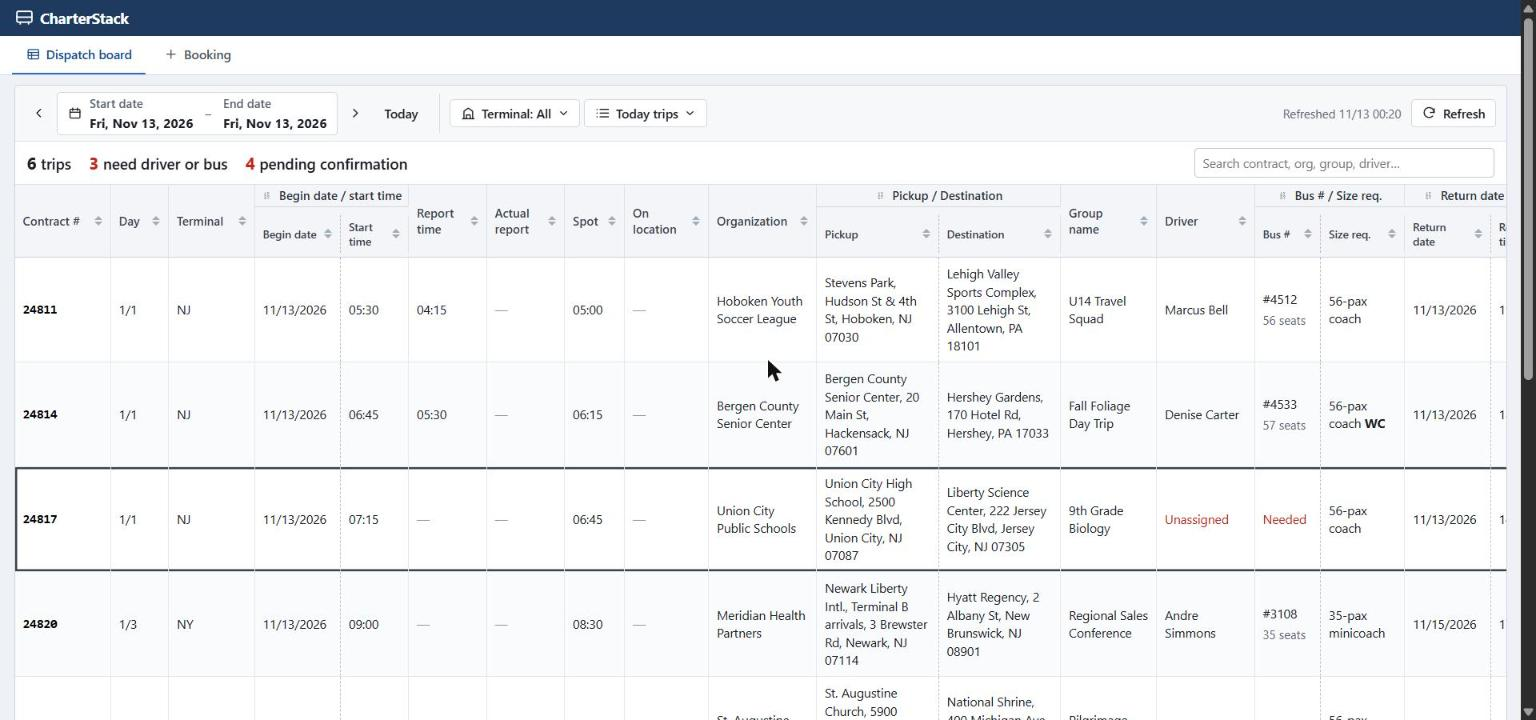
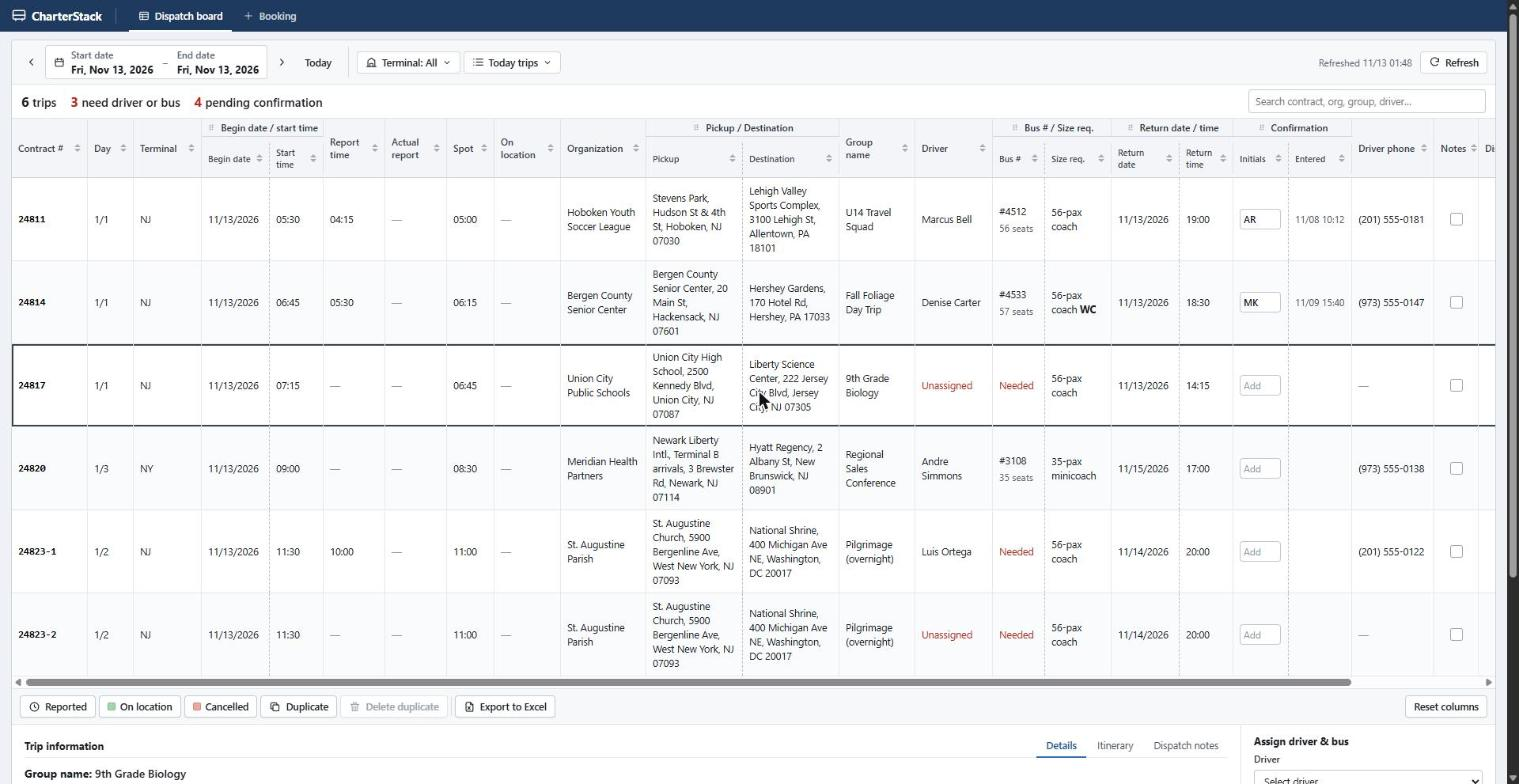
Combine the header and tabs into one navy bar
The CharterStack name and the Dispatch board / Booking tabs now share one
40px navy bar, giving the trip table back about 38px. UI guide updated
first; README and landing screenshots retaken.

diff --git a/frontend/src/components/AppFrame.tsx b/frontend/src/components/AppFrame.tsx
@@ -40,29 +40,30 @@ export default function AppFrame({ session }: { session: SessionInfo }) {
       <header className="app-header">
         <Icon name="bus" size={20} />
         <h1>CharterStack</h1>
+        <span className="header-sep" aria-hidden="true" />
+        <nav className="tabs" aria-label="Views">
+          <button
+            type="button"
+            className="tab"
+            data-active={tab === 'board'}
+            aria-current={tab === 'board' ? 'page' : undefined}
+            onClick={() => setTab('board')}
+          >
+            <Icon name="board" />
+            Dispatch board
+          </button>
+          <button
+            type="button"
+            className="tab"
+            data-active={tab === 'booking'}
+            aria-current={tab === 'booking' ? 'page' : undefined}
+            onClick={() => setTab('booking')}
+          >
+            <Icon name="plus" />
+            Booking
+          </button>
+        </nav>
       </header>
-      <nav className="tabs" aria-label="Views">
-        <button
-          type="button"
-          className="tab"
-          data-active={tab === 'board'}
-          aria-current={tab === 'board' ? 'page' : undefined}
-          onClick={() => setTab('board')}
-        >
-          <Icon name="board" />
-          Dispatch board
-        </button>
-        <button
-          type="button"
-          className="tab"
-          data-active={tab === 'booking'}
-          aria-current={tab === 'booking' ? 'page' : undefined}
-          onClick={() => setTab('booking')}
-        >
-          <Icon name="plus" />
-          Booking
-        </button>
-      </nav>
       <main className="app-main">
         {tab === 'board' ? (
           <BoardTab

diff --git a/frontend/src/styles/app.css b/frontend/src/styles/app.css
@@ -49,33 +49,41 @@ textarea {
 .app-header {
   background: var(--app-header);
   color: #fff;
-  padding: 8px 14px;
+  height: 40px;
+  padding: 0 14px;
   display: flex;
   align-items: center;
   gap: 6px;
+  flex: none;
 }
 .app-header h1 {
   margin: 0;
   font-size: 15px;
   font-weight: 700;
   letter-spacing: -0.01em;
+  white-space: nowrap;
+}
+.header-sep {
+  width: 1px;
+  height: 20px;
+  background: rgba(255, 255, 255, 0.25);
+  margin: 0 10px 0 12px;
 }
 .tabs {
-  background: #fff;
-  border-bottom: 1px solid #d5dae1;
-  padding: 0 12px;
   display: flex;
-  gap: 4px;
+  align-self: stretch;
+  gap: 2px;
 }
 .tab {
-  height: 38px;
-  padding: 0 14px;
+  height: 100%;
+  padding: 0 12px;
   border: 0;
   border-bottom: 2px solid transparent;
+  border-top: 2px solid transparent;
   background: transparent;
-  color: var(--text-2);
+  color: rgba(255, 255, 255, 0.75);
   font-size: 12.5px;
-  font-weight: 600;
+  font-weight: 500;
   display: flex;
   align-items: center;
   gap: 6px;
@@ -86,11 +94,17 @@ textarea {
   height: 14px;
 }
 .tab:hover {
-  color: var(--text);
+  color: #fff;
+  background: rgba(255, 255, 255, 0.06);
 }
 .tab[data-active='true'] {
-  color: var(--blue-text);
-  border-bottom-color: var(--blue);
+  color: #fff;
+  font-weight: 600;
+  border-bottom-color: #fff;
+}
+.tab:focus-visible {
+  outline: 2px solid #fff;
+  outline-offset: -4px;
 }
 .sfoot {
   display: flex;

diff --git a/docs/UI_GUIDE.md b/docs/UI_GUIDE.md
@@ -21,7 +21,7 @@ A dense, desktop internal tool: closer to a real TMS than a modern marketing app
 | Toolbar / header-row background | `#F7F8FA` / `#F3F5F8` |
 | App header bar | `#1F3A5F`, white text |
 | Text | `#1B1F24`; secondary `#4A525D`; muted `#5B6470`; placeholder dash `#8E97A3` |
-| Primary blue (buttons, active tab, focus) | `#2F6BC0`; hover `#2759A3`; active tab text `#1A4C8C` |
+| Primary blue (buttons, focus, Trip information tabs) | `#2F6BC0`; hover `#2759A3`; active inner-tab text `#1A4C8C` |
 | Red (warnings, Unassigned, Needed, counts) | `#C0261B` |
 | Row: selected | 2px inset outline `#3A424D` |
 | Row: duplicate | background `#E2EDFC` |
@@ -36,10 +36,9 @@ Times are 24-hour `HH:MM`. Board dates are `MM/DD/YYYY` with no weekday. Empty v
 
 Top to bottom:
 
-1. **Header bar** — dark navy, small bus icon, "CharterStack" in bold white. Nothing else.
-2. **Tabs** — "Dispatch board" and "Booking". Active tab has blue text and a 2px blue underline.
-3. **Tab content** (below).
-4. **Session strip** — a thin grey bar at the very bottom of the page, small text, label in grey then value:
+1. **Header bar with tabs** — one dark navy bar (`#1F3A5F`, 40px tall). On the left: small bus icon and "CharterStack" in bold white, then a thin divider, then the two tabs "Dispatch board" and "Booking". Tabs are white text at 75% opacity; the active tab is full white, semi-bold, with a 2px white underline. Hover brings a tab to full white. (Changed from separate header and tab rows to save vertical space for the trip table; the screenshots in `design/screenshots/` still show the old two-row frame.)
+2. **Tab content** (below).
+3. **Session strip** — a thin grey bar at the very bottom of the page, small text, label in grey then value:
    `Date Thu 11/12/2026 · Time 21:04:37 · User Demo User · Terminal All · Session DEMO-8F3K2 · Session time 00:12:45 · Server demo-server`
    - Date and Time are the visitor's real local date and time; Time ticks every second.
    - Terminal mirrors the board's terminal filter (`All`, `None`, or `NJ, PA`).
